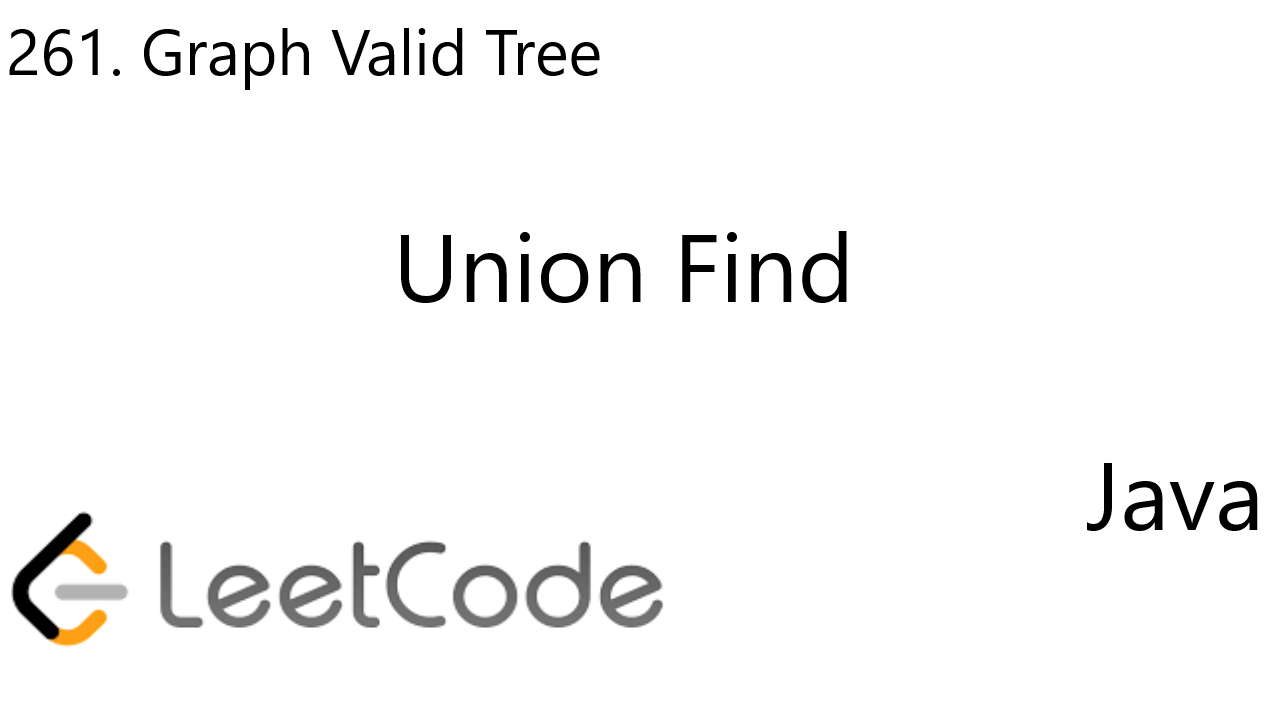
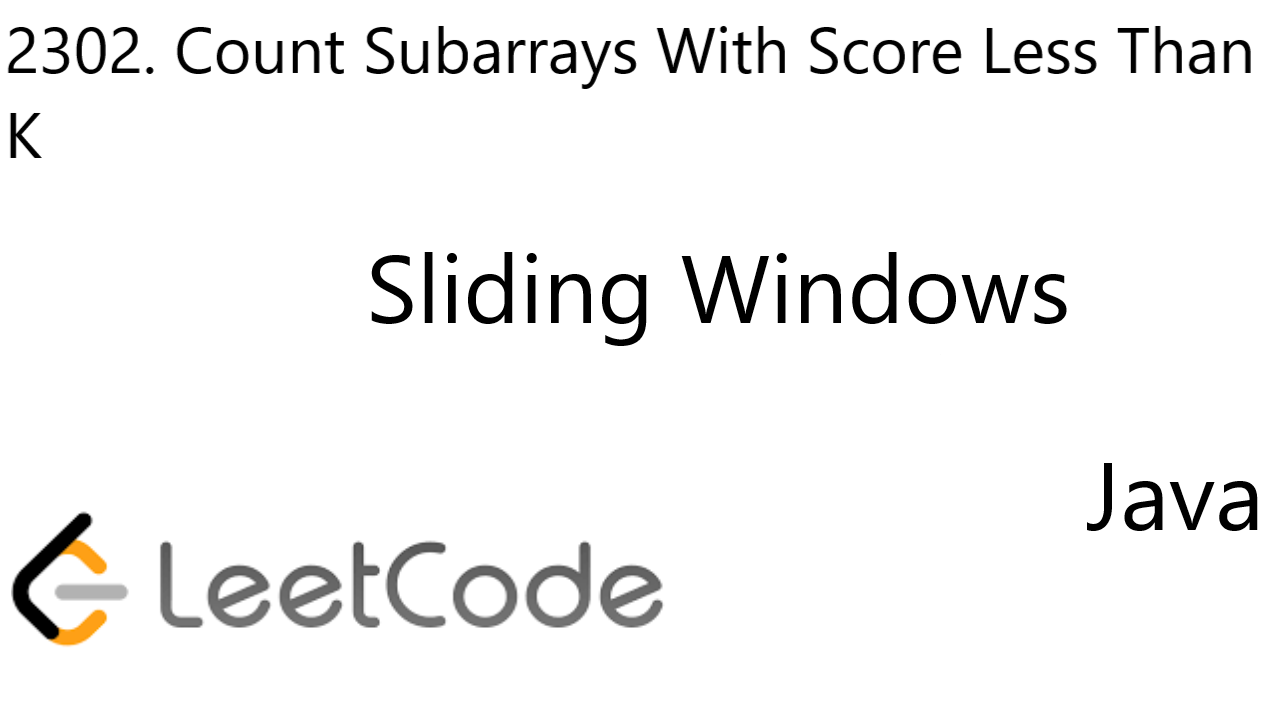
2302

Changed region(s): [[0.0, 0.0306, 1.0, 0.1222], [0.2812, 0.3056, 0.8438, 0.4889], [0.0, 0.1528, 0.0312, 0.2139]]

diff --git a/LeetCode/02302. Count Subarrays With Score Less Than K/README.MD b/LeetCode/02302. Count Subarrays With Score Less Than K/README.MD
@@ -1,0 +1,19 @@
+# Sliding windows
+* Time Complexity: O(N)
+* Space Complexity: O(1)
+```
+class Solution {
+    public long countSubarrays(int[] nums, long k) {
+        long res = 0,
+             curSum = 0;
+        for(int i = 0, j = 0; j < nums.length; j++){
+            curSum += nums[j];
+            while(curSum * (j-i+1) >= k){
+                curSum -= nums[i++];
+            }
+            res += j-i+1;
+        }
+        return res;
+    }
+}
+```
